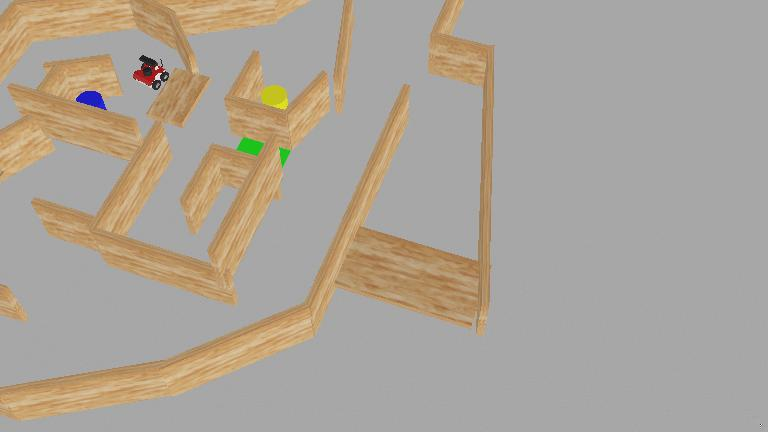
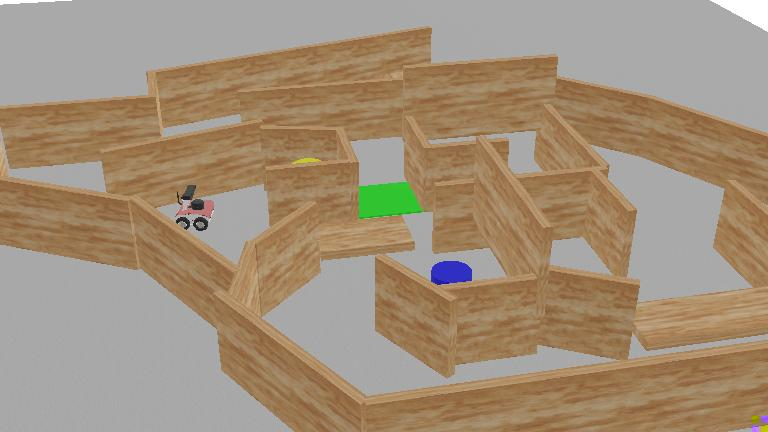
Perception module done

diff --git a/controllers/my_controller/autonomous.py b/controllers/my_controller/autonomous.py
@@ -259,9 +259,21 @@ def autonomous_step(block_timer, pose=None):
     # its block-recovery logic still runs.  All safety overrides below
     # still apply on top of whichever twist was chosen.
     active_color, active_bearing, active_distance = _active_target_bearing(colors, pose)
-    if active_color is not None and center_min > FRONT_BLOCK_DIST:
+    if active_color is not None:
         sv, somega, slabel = _seek_twist(active_bearing)
-        v_cmd, omega_cmd, label = sv, somega, f"{slabel}_{active_color}"
+        
+    #   ✅ ROTATION → always allowed
+        if sv == 0.0:
+            v_cmd, omega_cmd, label = sv, somega, f"{slabel}_{active_color}"
+            block_timer = 0
+
+        # ✅ FORWARD → only if front is clear
+        elif center_min > FRONT_BLOCK_DIST:
+            v_cmd = sv
+            # ✅ keep wall-follow steering
+            label = f"{slabel}_{active_color}"
+
+
 
     # ── Mission state advancement: check if active target is reached ──────────
     # active_distance is the live depth-at-centroid when the target is

diff --git a/controllers/my_controller/sensors.py b/controllers/my_controller/sensors.py
@@ -96,13 +96,13 @@ def _blue_pixel(r, g, b):
 
 def _yellow_pixel(r, g, b):
     return (
-        r > 180 and
-        g > 150 and
-        b < 120 and
-        (r - b > 60) and     # stronger separation
-        (g - b > 50) and
-        abs(r - g) < 40      # ✅ key: yellow has similar R & G
-    )
+            r > 140 and
+            g > 140 and
+            b < 100 and                  # ✅ strong blue suppression
+            abs(r - g) < 25 and          # ✅ VERY tight equality
+            (r + g) > (2 * b + 100)      # ✅ strong dominance
+        )
+
 
 
 

diff --git a/controllers/my_controller/config.py b/controllers/my_controller/config.py
@@ -10,7 +10,7 @@ TARGET_ANG_VEL = 0.50   # rad/s — nominal rotation rate
 TARGET_REV_VEL = 0.20
 # ── Laser front safety thresholds ────────────────────────────────────────────
 FRONT_STOP_DIST    = 0.15  # m — hard emergency stop (laser + range sensors)
-FRONT_BLOCK_DIST   = 0.18  # m — robot is blocked; stop forward and rotate
+FRONT_BLOCK_DIST   = 0.25  # m — robot is blocked; stop forward and rotate
 FRONT_BLOCK_CLEAR_DIST = 0.30  # m — blocked state releases only after this clearance
 FRONT_CAUTION_DIST = 0.35  # m — caution zone entry; slow down and steer
 